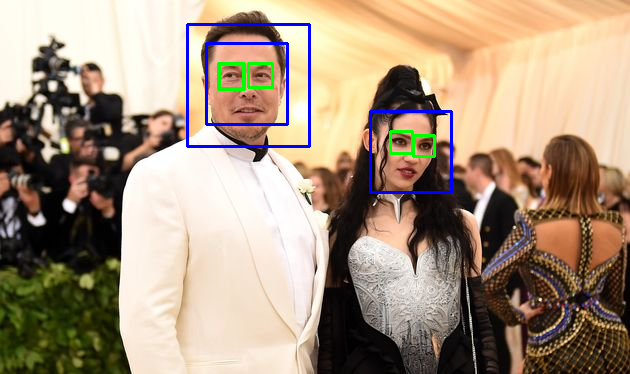
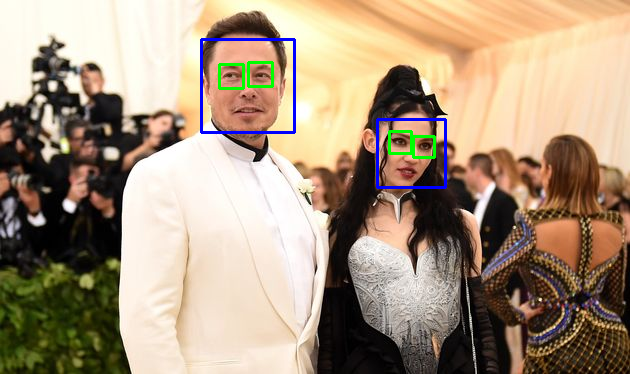
Small fix in  MultiScale size

Changed region(s): [[0.2714, 0.0588, 0.5127, 0.4118], [0.573, 0.2941, 0.7238, 0.5294], [0.3619, 0.1471, 0.4222, 0.1765]]

diff --git a/src/face_eye_detector.py b/src/face_eye_detector.py
@@ -7,7 +7,7 @@ eye_cascade = cv2.CascadeClassifier("haarcascade_eye.xml")
 img = cv2.imread("before.jpeg")
 gray = cv2.cvtColor(img, cv2.COLOR_BGR2GRAY)
 
-faces = face_cascade.detectMultiScale(gray, 1.5, 5)
+faces = face_cascade.detectMultiScale(gray, 1.3, 5)
 #faces = face_cascade.detectMultiScale(gray)
 
 # Makes a frame around face and eyes
